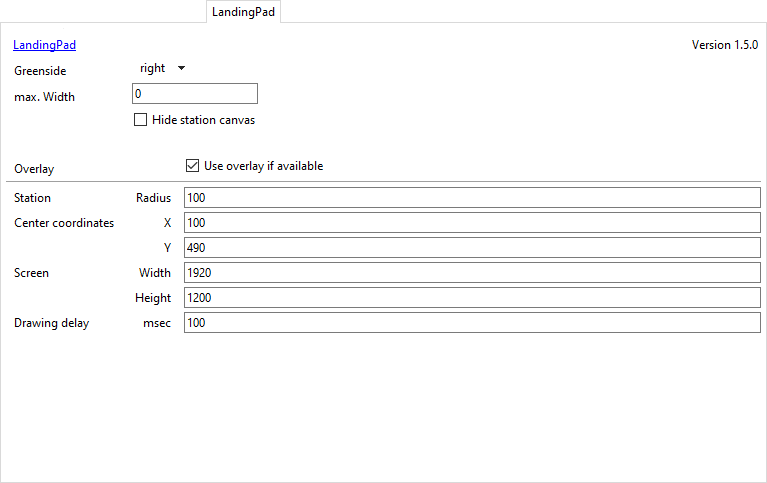
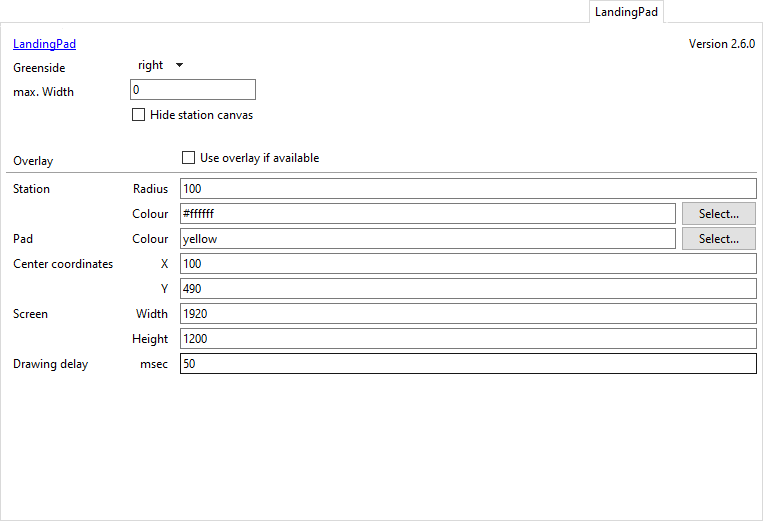
added the new colour settings to the readme and image

diff --git a/README.md b/README.md
@@ -33,6 +33,8 @@ You will need to re-start EDMC for it to notice the new plugin.
 * Overlay
   - Use overlay if available: if the EDMCOverlay plugin is installed use it (Default: off)
   - Station Radius: the radius of the overlay station (Default: 100)
+  - Station Colour: the colour for the station outline (Default: #ffffff)
+  - Pad Colour: the colour for the assigned landingpad (Default: yellow)
   - Center coordinates X/Y: the center position of the overlay station (Default: 100/490)
   - Screen Width/Height: the gamescreen resolution to keep the right aspect ratio (Default: screen of EDMC)
   - Drawing delay: delay between each drawing step in milliseconds (allowed range: 0 .. 500, Default: 100)
@@ -44,9 +46,10 @@ You will need to re-start EDMC for it to notice the new plugin.
 ## Acknowledgements
 
 [Habitable Zone plugin](https://github.com/Marginal/HabZone) from Jonathan Harris used as template.
+Thanks to @itewk for adding the station/pad colour setting to the gui.
 
 ## License
 
-Copyright © 2018 Bernd Gollesch.
+Copyright © 2018-2026 Bernd Gollesch.
 
 Licensed under the [GNU Public License (GPL)](http://www.gnu.org/licenses/gpl-2.0.html) version 2 or later.
